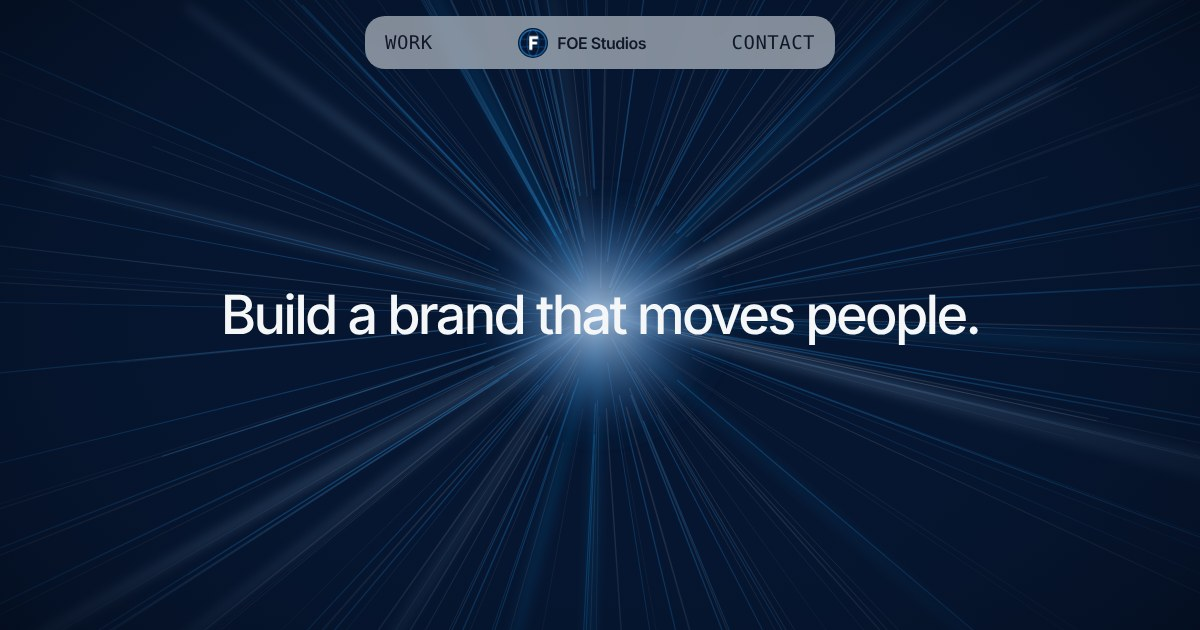
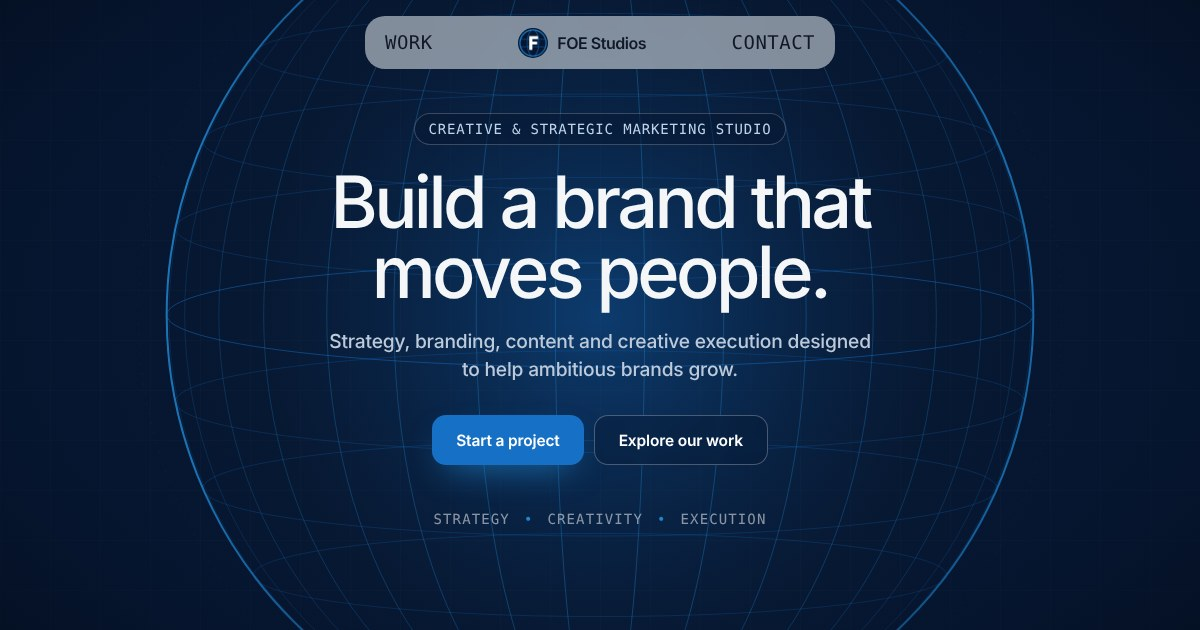
FOE Studios version C: single-screen hero on the FOE globe mark (no scroll-through opening); new link preview
Claude-Session: https://claude.ai/code/session_0167pTgxtFSz95AFdf71n4Xw

diff --git a/foe-studios-refero/index.html b/foe-studios-refero/index.html
@@ -17,7 +17,7 @@
 <meta property="og:image" content="https://icelestial21-cmd.github.io/client-previews/foe-studios-refero/og.jpg">
 <meta property="og:image:width" content="1200">
 <meta property="og:image:height" content="630">
-<meta property="og:image:alt" content="FOE Studios: Build a brand that moves people, over a field of blue light">
+<meta property="og:image:alt" content="FOE Studios: Build a brand that moves people, over the FOE globe">
 <meta name="twitter:card" content="summary_large_image">
 <meta name="twitter:title" content="FOE Studios · Build a brand that moves people">
 <meta name="twitter:description" content="A creative and strategic marketing studio. Strategy, branding, content and creative execution for brands that intend to grow.">
@@ -58,16 +58,21 @@ h1,h2,h3,p{margin:0}
 .nav .id{display:flex;align-items:center;gap:9px;font-weight:600;font-size:16px;letter-spacing:-.03em}
 .nav .id img{width:30px;height:30px;border-radius:50%}
 
-/* Optical opening */
-.optic{position:relative;background:var(--navy);color:var(--canvas)}
-.scene{position:sticky;top:0;height:100vh;height:100svh;overflow:hidden}
+/* Hero: FOE globe mark as the stage (replaces the scroll-through light field) */
+.optic{position:relative;background:var(--navy);color:var(--canvas);min-height:100vh;min-height:100svh;display:grid;place-items:center;overflow:hidden}
+.scene{position:absolute;inset:0}
 .scene svg{position:absolute;inset:0;width:100%;height:100%}
-.optic-copy{position:relative;margin-top:-100vh;margin-top:-100svh}
-.optic-copy>div{position:relative;min-height:100vh;min-height:100svh;display:grid;place-items:center;text-align:center;padding:0 24px}
-.optic h1{font-weight:500;font-size:clamp(30px,3.4vw,44px);line-height:1.05;letter-spacing:-.05em;max-width:640px;text-wrap:balance}
-.optic .second p{max-width:620px;font-weight:500;font-size:clamp(24px,2.8vw,40px);line-height:1.05;letter-spacing:-.05em;text-wrap:balance}
-.optic .second p span{color:#7fa6cc}
-.hint{position:absolute;left:50%;bottom:26px;transform:translateX(-50%);font:400 14px var(--dot);letter-spacing:.06em;text-transform:uppercase;color:rgba(244,246,248,.55)}
+.hero-copy{position:relative;z-index:1;text-align:center;padding:120px 24px 90px;max-width:900px}
+.eyebrow{display:inline-block;padding:7px 14px;border-radius:999px;border:1px solid rgba(244,246,248,.22);background:rgba(6,22,48,.5);font:400 14px var(--dot);letter-spacing:.06em;text-transform:uppercase;color:#bcd3ea}
+.optic h1{font-weight:500;font-size:clamp(42px,6.4vw,92px);line-height:.98;letter-spacing:-.05em;margin:22px auto 20px;text-wrap:balance}
+.optic p{font-size:clamp(17px,1.6vw,21px);line-height:1.45;color:#bccadb;max-width:560px;margin:0 auto;letter-spacing:-.01em}
+.ctas{display:flex;gap:10px;justify-content:center;flex-wrap:wrap;margin-top:32px}
+.cta{display:inline-flex;align-items:center;height:50px;padding:0 24px;border-radius:14px;font-weight:600;font-size:15.5px;letter-spacing:-.01em;transition:transform .25s,background .25s}
+.cta:hover{transform:translateY(-2px)}
+.cta.pri{background:var(--blue);color:#fff;box-shadow:0 14px 34px -14px rgba(33,134,208,.9)}.cta.pri:hover{background:var(--bright)}
+.cta.ghost{border:1px solid rgba(244,246,248,.28);color:#fff;background:rgba(6,22,48,.35);backdrop-filter:blur(6px)}
+.pillars{display:flex;justify-content:center;gap:14px;flex-wrap:wrap;margin-top:46px;font:400 14px var(--dot);letter-spacing:.08em;text-transform:uppercase;color:rgba(244,246,248,.55)}
+.pillars span+span::before{content:"\2022";color:var(--bright);margin-right:14px}
 
 /* Editorial statement */
 .editorial{padding:110px 40px 100px 20px}
@@ -165,7 +170,7 @@ h1,h2,h3,p{margin:0}
   .chapter .rail>.label{border-bottom-color:rgba(244,246,248,.35)}
   .rail nav,.chapter .lead{padding-left:0}.editorial{padding:80px 20px 70px}
   .pair{padding-top:80px}.chapter{padding:100px 20px}.cols{margin-top:70px}
-  .nav a.dot{font-size:16px}.capsule{font-size:13px;max-width:calc(100% - 24px)}.capsule small{display:none}.preview-tag{display:none}.object .promise{margin:70px 0 60px}
+  .nav a.dot{font-size:16px}.eyebrow{font-size:11.5px;letter-spacing:.03em}.capsule{font-size:13px;max-width:calc(100% - 24px)}.capsule small{display:none}.preview-tag{display:none}.object .promise{margin:70px 0 60px}
 }
 @media(prefers-reduced-motion:reduce){.rv{opacity:1;transform:none}html{scroll-behavior:auto}}
 </style>
@@ -175,10 +180,13 @@ h1,h2,h3,p{margin:0}
 
 <main id="top">
 <section class="optic" aria-label="Introduction">
-  <div class="scene" aria-hidden="true"><svg id="rays" viewBox="0 0 1440 900" preserveAspectRatio="xMidYMid slice"></svg></div>
-  <div class="optic-copy">
-    <div><h1>Build a brand that moves people.</h1><span class="hint">Scroll</span></div>
-    <div class="second"><p>Strategy, creativity and execution, <span>working as one</span> so your brand doesn't just look strong, it performs.</p></div>
+  <div class="scene" aria-hidden="true"><svg id="globe" viewBox="0 0 1440 900" preserveAspectRatio="xMidYMid slice"></svg></div>
+  <div class="hero-copy">
+    <span class="eyebrow">Creative &amp; strategic marketing studio</span>
+    <h1>Build a brand that moves people.</h1>
+    <p>Strategy, branding, content and creative execution designed to help ambitious brands grow.</p>
+    <div class="ctas"><a class="cta pri" href="#contact">Start a project</a><a class="cta ghost" href="#work">Explore our work</a></div>
+    <div class="pillars"><span>Strategy</span><span>Creativity</span><span>Execution</span></div>
   </div>
 </section>
 
@@ -247,32 +255,25 @@ h1,h2,h3,p{margin:0}
 
 <script>
 {
-  // Convergent light field (Analogue recipe), recoloured to FOE blues. Seeded so it renders the same every time.
-  const svg = document.getElementById("rays");
-  let s = 7; const rnd = () => (s = (s * 16807) % 2147483647) / 2147483647;
-  const cx = 720, cy = 450, R = 1100;
-  let soft = "", bright = "";
-  for (let i = 0; i < 180; i++) {
-    const a = rnd() * Math.PI * 2, r0 = 20 + rnd() * 140, r1 = 500 + rnd() * R;
-    const x0 = cx + Math.cos(a) * r0, y0 = cy + Math.sin(a) * r0, x1 = cx + Math.cos(a) * r1, y1 = cy + Math.sin(a) * r1;
-    const c = rnd() < .55 ? "rgba(244,246,248,0.11)" : "rgba(33,134,208,0.32)";
-    soft += `<line x1="${x0.toFixed(1)}" y1="${y0.toFixed(1)}" x2="${x1.toFixed(1)}" y2="${y1.toFixed(1)}" stroke="${c}" stroke-width="${(0.5 + rnd() * 1.5).toFixed(2)}"/>`;
-  }
-  for (let i = 0; i < 16; i++) {
-    const a = rnd() * Math.PI * 2, r1 = 600 + rnd() * 600;
-    bright += `<line x1="${cx}" y1="${cy}" x2="${(cx + Math.cos(a) * r1).toFixed(1)}" y2="${(cy + Math.sin(a) * r1).toFixed(1)}" stroke="${rnd() < .5 ? "#2186D0" : "#9fc6ee"}" stroke-width="${(3 + rnd() * 5).toFixed(1)}" stroke-opacity=".35"/>`;
-  }
-  svg.innerHTML = `<defs><filter id="b1" x="-20%" y="-20%" width="140%" height="140%"><feGaussianBlur stdDeviation="7"/></filter><filter id="b2"><feGaussianBlur stdDeviation="22"/></filter>
-    <radialGradient id="vg" cx="50%" cy="50%" r="70%"><stop offset="40%" stop-color="#061630" stop-opacity="0"/><stop offset="100%" stop-color="#030b1a" stop-opacity=".92"/></radialGradient>
-    <radialGradient id="core"><stop offset="0" stop-color="#eaf3ff"/><stop offset=".35" stop-color="#7fb7ec" stop-opacity=".7"/><stop offset="1" stop-color="#1670C5" stop-opacity="0"/></radialGradient></defs>
-    <rect width="1440" height="900" fill="#061630"/><g>${soft}</g><g filter="url(#b1)">${bright}</g>
-    <circle cx="${cx}" cy="${cy}" r="140" fill="url(#core)" filter="url(#b2)" opacity=".85"/>
+  // FOE globe mark (from the logo: circle, meridians, latitude lines) as the hero stage, in FOE blues.
+  const svg = document.getElementById("globe"), cx = 720, cy = 450, R = 520;
+  let lat = "";
+  for (let k = -4; k <= 4; k++) { const y = cy + k * R / 5, w = Math.sqrt(Math.max(0, R * R - (k * R / 5) ** 2)); lat += `<ellipse cx="${cx}" cy="${y}" rx="${w.toFixed(1)}" ry="${(w * 0.12).toFixed(1)}" fill="none" stroke="#1670C5" stroke-opacity="${k === 0 ? .55 : .26}" stroke-width="1.2"/>`; }
+  let mer = ""; for (let i = 0; i < 8; i++) mer += `<ellipse class="m" cx="${cx}" cy="${cy}" rx="${R}" ry="${R}" fill="none" stroke="#2186D0" stroke-opacity=".34" stroke-width="1.2"/>`;
+  svg.innerHTML = `<defs><radialGradient id="glow" cx="50%" cy="50%" r="50%"><stop offset="0" stop-color="#1670C5" stop-opacity=".42"/><stop offset=".6" stop-color="#0B1F3A" stop-opacity=".25"/><stop offset="1" stop-color="#061630" stop-opacity="0"/></radialGradient>
+    <linearGradient id="ring" x1="0" y1="0" x2="1" y2="1"><stop offset="0" stop-color="#2186D0"/><stop offset="1" stop-color="#1769AA"/></linearGradient>
+    <radialGradient id="vg" cx="50%" cy="50%" r="72%"><stop offset="55%" stop-color="#061630" stop-opacity="0"/><stop offset="100%" stop-color="#030b1a" stop-opacity=".9"/></radialGradient>
+    <pattern id="grid" width="60" height="60" patternUnits="userSpaceOnUse"><path d="M60 0H0V60" fill="none" stroke="#fff" stroke-opacity=".035"/></pattern></defs>
+    <rect width="1440" height="900" fill="#061630"/><rect width="1440" height="900" fill="url(#grid)"/>
+    <circle cx="${cx}" cy="${cy}" r="${R + 160}" fill="url(#glow)"/>
+    <g opacity=".9">${lat}<g id="mers">${mer}</g>
+    <circle cx="${cx}" cy="${cy}" r="${R}" fill="none" stroke="url(#ring)" stroke-width="2.4"/>
+    <circle cx="${cx}" cy="${cy}" r="${R + 34}" fill="none" stroke="#1670C5" stroke-opacity=".18" stroke-width="1" stroke-dasharray="2 10"/></g>
     <rect width="1440" height="900" fill="url(#vg)"/>`;
-  if (!matchMedia("(prefers-reduced-motion: reduce)").matches) {
-    const g = svg.querySelector("g"); let t0 = performance.now();
-    const spin = (t) => { g.setAttribute("transform", `rotate(${((t - t0) / 1000 * 0.6) % 360} ${cx} ${cy})`); requestAnimationFrame(spin); };
-    requestAnimationFrame(spin);
-  }
+  const ms = svg.querySelectorAll(".m");
+  const draw = (ph) => ms.forEach((m, i) => { const a = ((i / ms.length) + ph) % 1 * Math.PI; m.setAttribute("rx", Math.abs(Math.cos(a) * R).toFixed(1)); m.setAttribute("stroke-opacity", (0.12 + 0.3 * Math.abs(Math.sin(a))).toFixed(2)); });
+  if (matchMedia("(prefers-reduced-motion: reduce)").matches) draw(0.06);
+  else { const t0 = performance.now(); const tick = (t) => { draw(((t - t0) / 1000) * 0.02); requestAnimationFrame(tick); }; requestAnimationFrame(tick); }
   const io = new IntersectionObserver((es) => es.forEach((e) => { if (e.isIntersecting) { e.target.classList.add("in"); io.unobserve(e.target); } }), { threshold: .1 });
   document.querySelectorAll(".rv").forEach((el) => io.observe(el));
   document.getElementById("start").addEventListener("submit", function (e) { e.preventDefault(); if (!this.checkValidity()) { this.reportValidity(); return; } this.classList.add("sent"); this.querySelector("button").disabled = true; });
